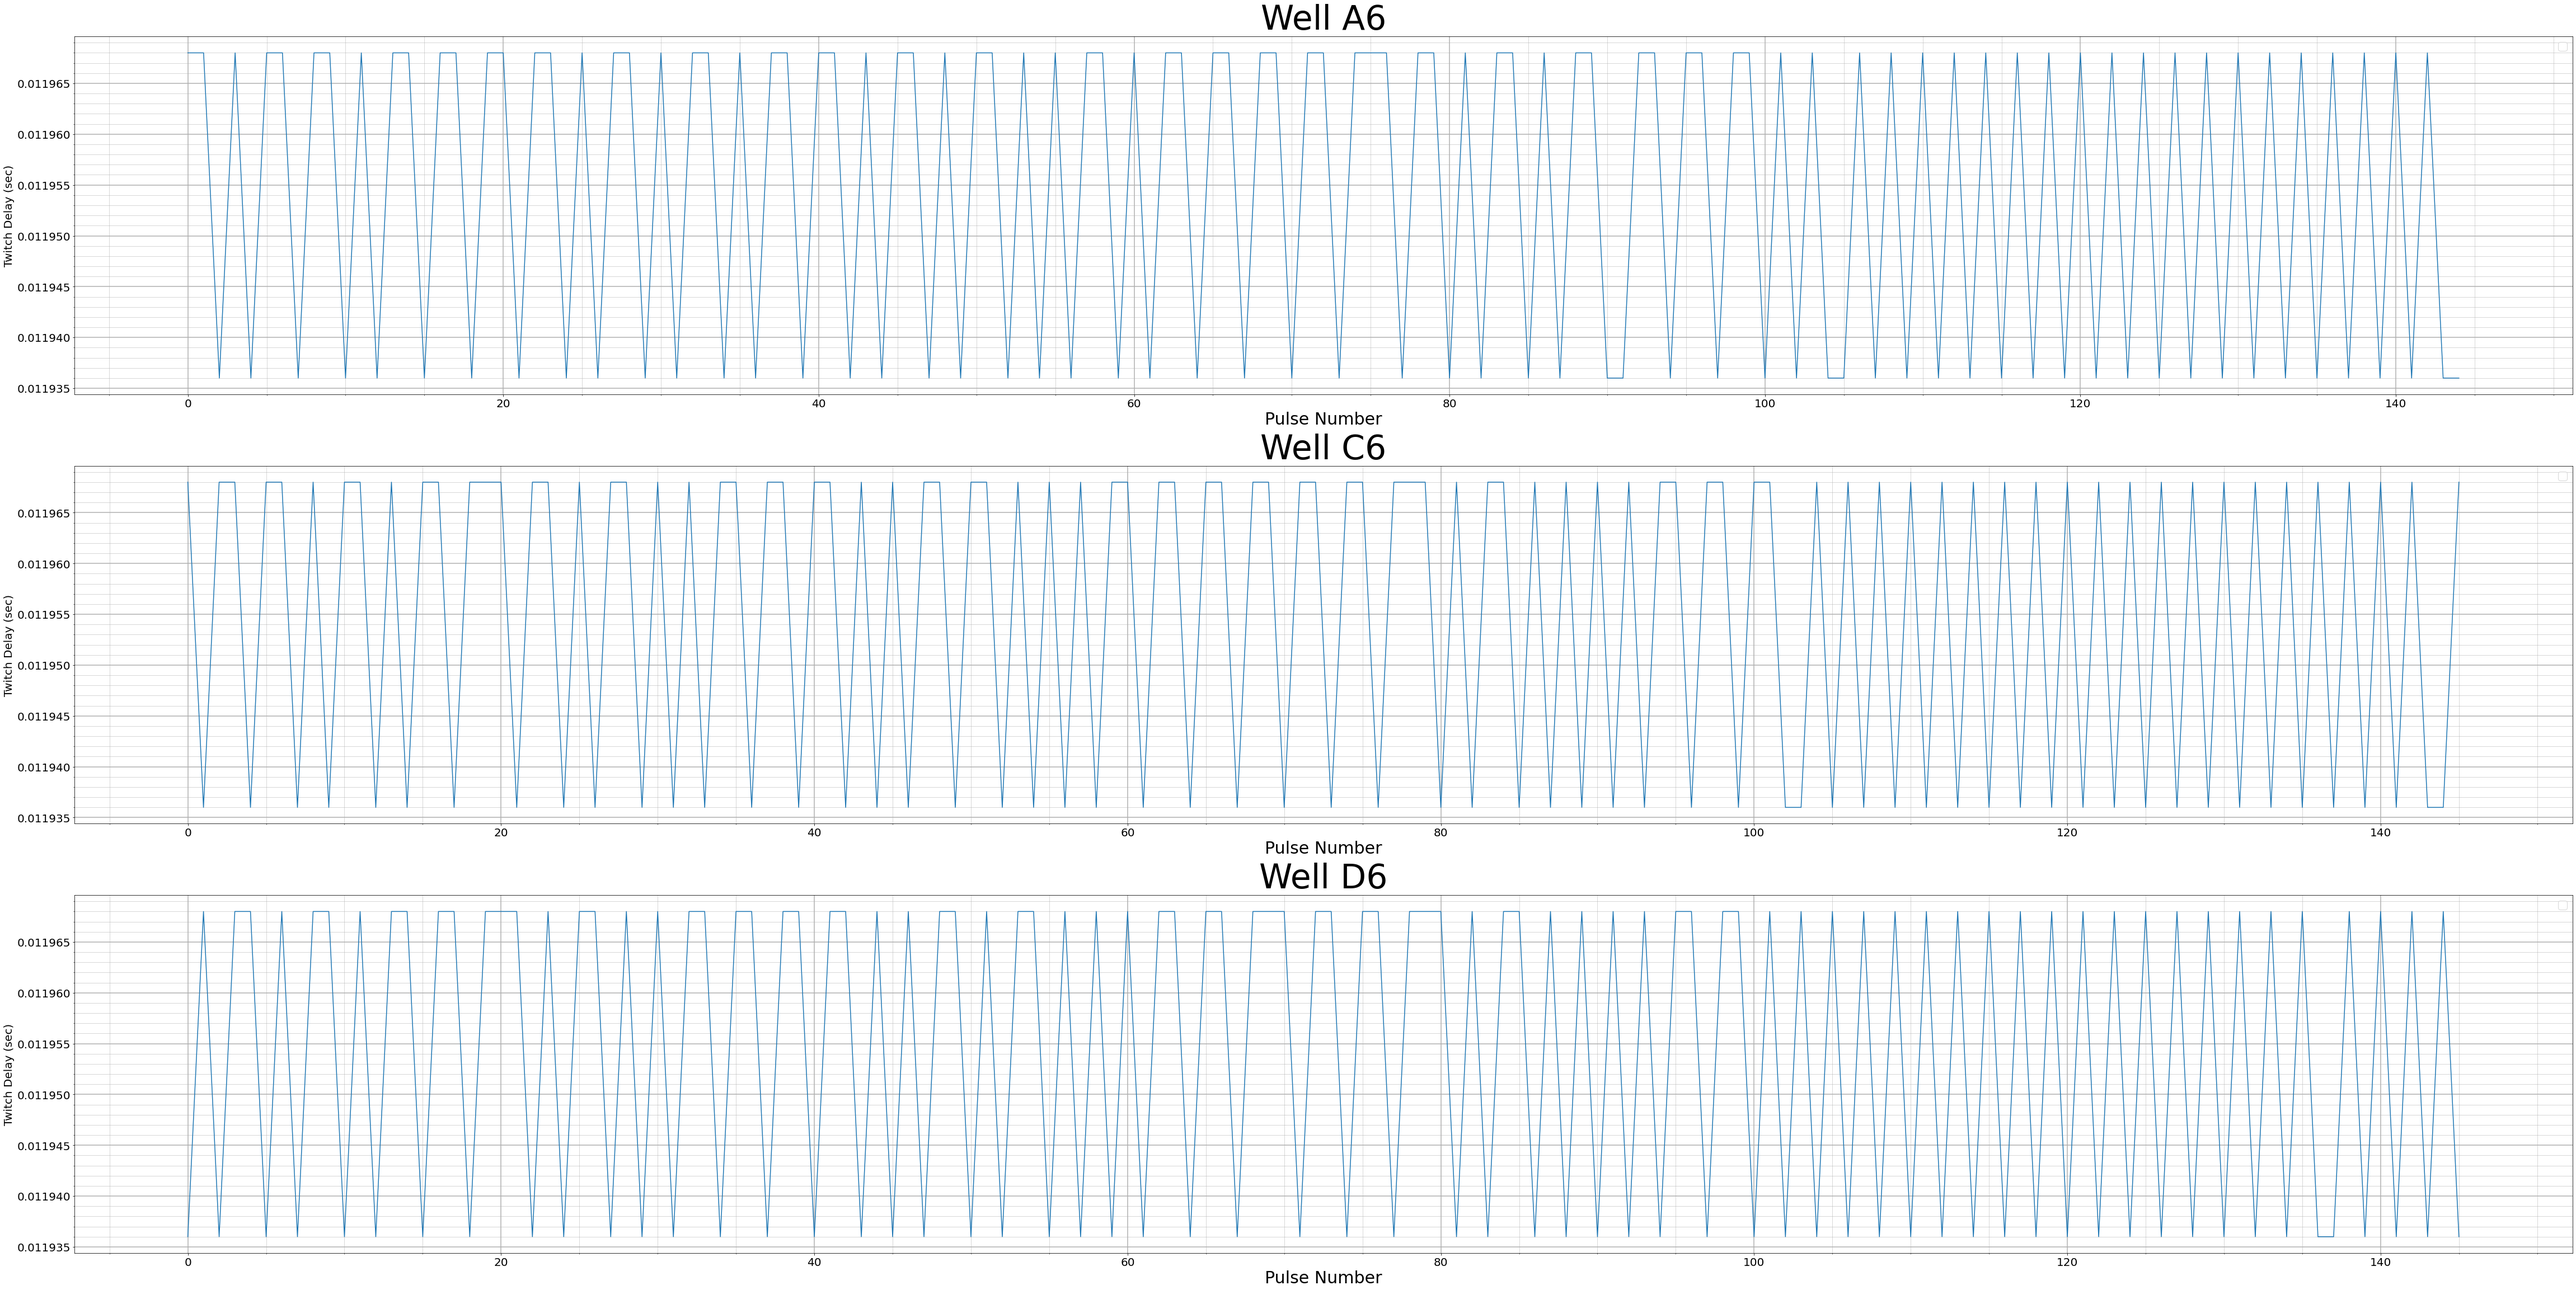
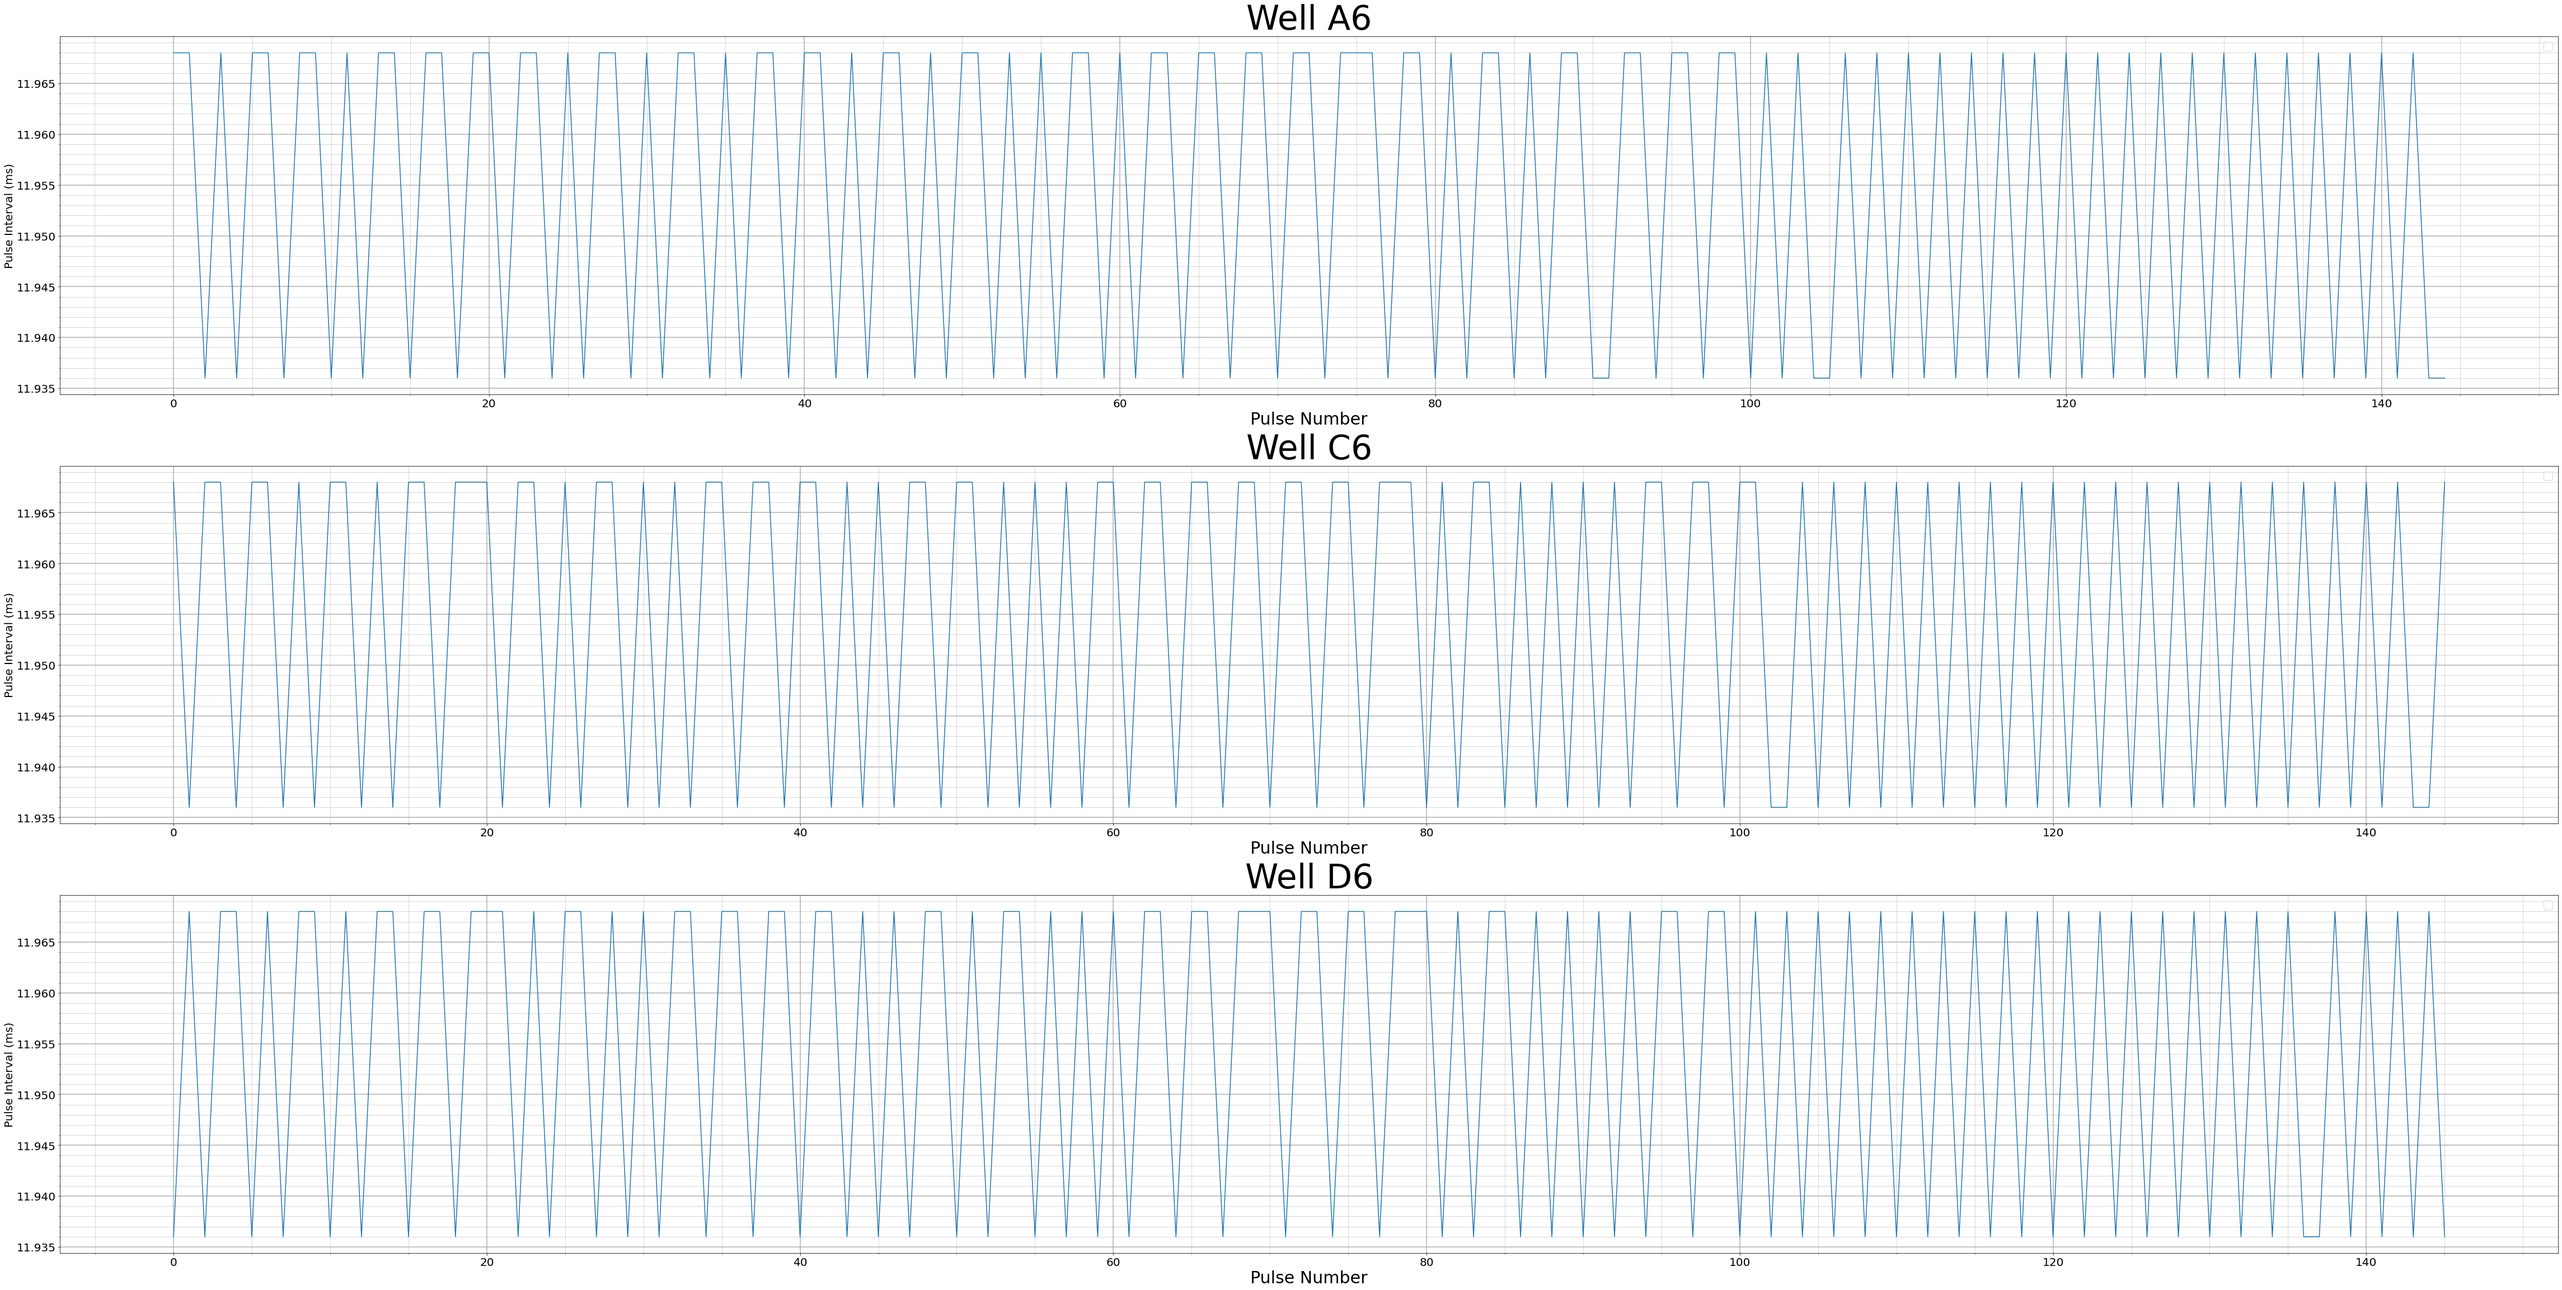
Modified the stim interpolater script and added some data plots regarding the most recent experiments

diff --git a/Post Processing Scripts/Stim Pulse Start.py b/Post Processing Scripts/Stim Pulse Start.py
@@ -172,7 +172,7 @@ for wellNum in range(numWells):
     # Find the prominence of each peak
     prominences = peak_prominences(thisData, peaks)[0]
     # Filter the peaks so that we are only paying attention to those that have a significant prominence
-    filteredPeaks = find_peaks(thisData, prominence = np.amax(prominences)/4)[0]
+    filteredPeaks = find_peaks(thisData, prominence = np.amax(prominences)/2)[0]
     
     twitchDelays.insert(wellNum, np.mean(np.diff(thisTimestamps[filteredPeaks])))
     
@@ -198,7 +198,19 @@ for wellNum in range(numWells):
             # Find the index in the interpolated pulse array that matches up to the index at the ending of the timestamp array for this subprotocol
             lastPulseIndex = np.argmin(np.abs(pulseStarts - thisTimestamps[timestampIndexAtEnding]))
             # If there are more or less pulses in the pulse array then peaks in the data, then there is a good chance you aren't capturing tissue and I can't help ya bud
-            if (lastPulseIndex - firstPulseIndex) == thisTimestamps[filteredPeaks].shape[0]:
+            if ((lastPulseIndex) - firstPulseIndex) != thisTimestamps[filteredPeaks].shape[0]:
+                #If you are really close to the correct number, then we are just going to do a bit of filtering
+                if (filteredPeaks.shape[0] - (lastPulseIndex - firstPulseIndex)) < ((lastPulseIndex - firstPulseIndex)/3):
+                    sampleDelays = np.diff(filteredPeaks)
+                    avgSampleDelay = np.mean(sampleDelays)
+                    indicesToDelete = []
+                    for index, delay in enumerate(sampleDelays):
+                        if (delay < avgSampleDelay/2):
+                            beforePeakIndex = filteredPeaks[index]
+                            afterPeakIndex = filteredPeaks[index + 1]
+                            indicesToDelete.append(index if thisData[afterPeakIndex] > thisData[beforePeakIndex] else (index+1))
+                    filteredPeaks = np.delete(filteredPeaks, indicesToDelete)
+            if ((lastPulseIndex) - firstPulseIndex) == thisTimestamps[filteredPeaks].shape[0]:
                 # Derive a delay array from when the pulses started compared to their corresponding peaks
                 delays = thisTimestamps[filteredPeaks] - pulseStarts[firstPulseIndex:lastPulseIndex]
                 # Plot the delay array

diff --git a/Post Processing Scripts/LogicAnalyzerParser.py b/Post Processing Scripts/LogicAnalyzerParser.py
@@ -54,11 +54,11 @@ fig.savefig(f"{targetPlotsFolderName}\{targetDataFolderName}_test", bbox_inches 
 #%%
 fig, axs = plt.subplots(numChannels, figsize=(80, 40), sharey = True)
 for channelNum in range(numChannels):
-    timingDifferences = np.diff(timestamps[risingEdgeIndices[channelNum]])
+    timingDifferences = np.diff(timestamps[risingEdgeIndices[channelNum]]) * 1000
     axs[channelNum].plot(np.arange(timingDifferences.shape[0]), timingDifferences)
     axs[channelNum].set_title(f'Well {wellMap[channelNum]}', fontsize = 60)
     axs[channelNum].set_xlabel('Pulse Number', fontsize = 30)
-    axs[channelNum].set_ylabel('Twitch Delay (sec)', fontsize = 20)
+    axs[channelNum].set_ylabel('Pulse Interval (ms)', fontsize = 20)
     axs[channelNum].tick_params(which = 'major', labelsize = 20)
     axs[channelNum].minorticks_on()
     axs[channelNum].grid(which='major', linewidth=1.5)
